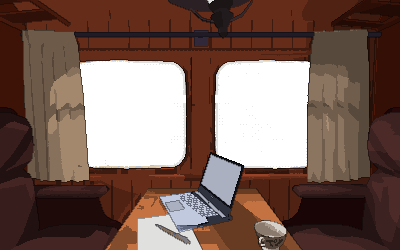
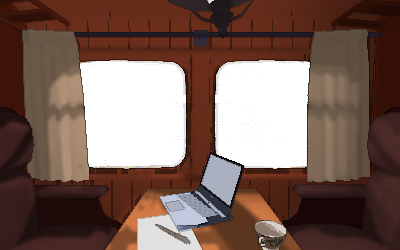
雪国线 pixel ride, cleaner: soft light instead of jagged colour steps on curtains, seats, walls and table; the keyboard a quiet deck with faint rows instead of a checkerboard; the wood outside drawn in clean flat shapes (tools/forest_px.py) instead of a noisy shrunk photo; near trunks cool blue-grey, n
Claude-Session: https://claude.ai/code/session_01ScX6WKwjvGxQ2unMJchHBc

diff --git a/ride.js b/ride.js
@@ -27,11 +27,10 @@
     for (let x = 0; x < TW - 200;) { x += 120 + r() * 420; const w = 50 + r() * 120;
       if (PX) {   // pixel bark: flat tones on the 4-px grid, a snow-lit edge, a few dark notches — no gradients
         const X = Math.round(x / 4) * 4, Wd = Math.round(w / 4) * 4;
-        t.fillStyle = "#3a3028"; t.fillRect(X, 0, Wd, IH);
-        t.fillStyle = "#261f1a"; t.fillRect(X + Math.round(Wd * .62 / 4) * 4, 0, Wd - Math.round(Wd * .62 / 4) * 4, IH);
-        t.fillStyle = "#c9d3de"; t.fillRect(X + 4, 0, 8, IH);
-        t.fillStyle = "#5a4a3e"; t.fillRect(X + 12, 0, 4, IH);
-        t.fillStyle = "#1a1512"; for (let y = 0; y < IH; y += 60 + Math.floor(r() * 90)) t.fillRect(X + 16 + Math.floor(r() * Wd / 8) * 4, Math.round(y / 4) * 4, 8 + Math.floor(r() * 3) * 4, 4);
+        t.fillStyle = "#3a4458"; t.fillRect(X, 0, Wd, IH);          // cool, like the trees in the snow outside
+        t.fillStyle = "#2b3346"; t.fillRect(X + Math.round(Wd * .6 / 4) * 4, 0, Wd - Math.round(Wd * .6 / 4) * 4, IH);
+        t.fillStyle = "#56627a"; t.fillRect(X + 4, 0, 8, IH);
+        t.fillStyle = "#222838"; for (let y = 0; y < IH; y += 60 + Math.floor(r() * 90)) t.fillRect(X + 16 + Math.floor(r() * Wd / 8) * 4, Math.round(y / 4) * 4, 8 + Math.floor(r() * 3) * 4, 4);
         x += w; continue; }
       const gr = t.createLinearGradient(x, 0, x + w, 0); gr.addColorStop(0, "rgba(28,23,18,0)"); gr.addColorStop(.18, "rgba(28,23,18,.97)"); gr.addColorStop(.6, "rgba(48,40,32,.97)"); gr.addColorStop(.82, "rgba(20,16,12,.97)"); gr.addColorStop(1, "rgba(20,16,12,0)");
       t.fillStyle = gr; t.fillRect(x, 0, w, IH);

diff --git a/tools/forest_px.py b/tools/forest_px.py
@@ -1,0 +1,38 @@
+"""纸桌 · the snowy wood seen from the train, drawn in flat pixel shapes (1200×190, tiles horizontally) → assets/snow-forest-px.png"""
+# night snowy wood in the reference's palette: deep blue sky, blue-white snow, a few warm distant lights
+import numpy as np, random
+from PIL import Image, ImageDraw, ImageFilter
+random.seed(3); S=1; W,H=1200*S,190*S
+P=dict(sky0=(150,192,236),sky1=(178,210,242),sky2=(206,226,246),far0=(160,184,222),far1=(142,168,212),mid0=(96,128,182),mid1=(76,106,162),
+       pine0=(44,72,118),pine1=(30,52,94),snow=(250,252,255),snowM=(196,214,244),ground=(236,242,252),groundL=(204,218,244),birch=(240,238,232),mark=(60,64,80))
+im=Image.new('RGB',(W,H),P['sky0']); d=ImageDraw.Draw(im)
+for i,(y,c) in enumerate([(30,'sky1'),(70,'sky2')]): d.rectangle([0,y*S,W,H],fill=P[c])
+def pine(x,base,h,c0,c1,snow):
+    tiers=max(3,h//(9*S))
+    for t in range(tiers):
+        y0=base-h+t*h//tiers; y1=y0+h//tiers+4*S; w=4*S+int((t+1)/tiers*h*.42)
+        d.polygon([(x,y0),(x-w,y1),(x+w,y1)],fill=c0); d.polygon([(x,y0),(x+w,y1),(x+w//3,y1)],fill=c1)
+        if snow:
+            d.polygon([(x,y0),(x-w+S,y1-S),(x-w//2,y1-S),(x-S,y0+3*S)],fill=P['snowM'])
+            d.rectangle([x-w+S,y1-2*S,x+w//3,y1-S],fill=P['snow'])
+    d.rectangle([x-S,base-2*S,x+S,base+2*S],fill=c1)
+def wrap(f,x,*a):
+    for o in (-W,0,W): f(x+o,*a)
+for i in range(80): wrap(pine,random.randrange(W),112*S,random.randint(22,40)*S,P['far0'],P['far1'],False)
+d.rectangle([0,110*S,W,H],fill=P['far0'])
+# distant lit windows: the warm accent, like the reference's buildings
+for i in range(9):
+    x=random.randrange(W); y=random.randint(98,108)*S
+    for o in (-W,0,W): d.rectangle([x+o,y,x+o+2*S,y+2*S],fill=(176,200,236))
+for i in range(50): wrap(pine,random.randrange(W),128*S,random.randint(30,54)*S,P['mid0'],P['mid1'],True)
+d.rectangle([0,126*S,W,H],fill=P['ground']); d.rectangle([0,126*S,W,127*S],fill=P['groundL'])
+for i in range(22): wrap(pine,random.randrange(W),156*S,random.randint(52,86)*S,P['pine0'],P['pine1'],True)
+d.rectangle([0,154*S,W,H],fill=P['ground'])
+for x in range(0,W,2*S):
+    if random.random()<.3: yy_=155*S+random.randint(0,20)*S; d.rectangle([x,yy_,x+S,yy_+S],fill=P['groundL'])
+for i in range(12):
+    x=random.randrange(W); w=random.choice([3,4])*S
+    for o in (-W,0,W):
+        X=x+o; d.rectangle([X,0,X+w-1,160*S],fill=P['birch']); d.rectangle([X+w-S,0,X+w-1,160*S],fill=P['snowM'])
+        for y in range(4*S,158*S,random.randint(9,14)*S): d.rectangle([X,y,X+random.randint(1,w//S-1)*S,y+S-1],fill=P['mark'])
+import os; im.save(os.path.join(os.path.dirname(os.path.dirname(os.path.abspath(__file__))),'assets','snow-forest-px.png')); print(im.size)

diff --git a/tools/pixelate.py b/tools/pixelate.py
@@ -133,7 +133,8 @@ def band(g, q, m, v):
     if v == WALL: base_c = base_c * 1.25
     if v in SEATS: base_c = base_c * np.array([1.08, 1.0, .9])   # wood colour, never the grey smudge
     L = LIGHT_SUN if lit else LIGHT_SHADE                        # shading from a flat-colour render: light and form only, no texture dirt
-    r = L[m] / max(np.median(LIGHT_SHADE[m]), 1e-3); r = LEVELS[np.abs(r[:, None] - LEVELS[None]).argmin(1)]
+    mf = m.astype(np.float32); Ls = ndimage.gaussian_filter(L * mf, 1.6) / np.maximum(ndimage.gaussian_filter(mf, 1.6), 1e-3)
+    r = np.clip(Ls[m] / max(np.median(LIGHT_SHADE[m]), 1e-3), .55, 1.6)
     q[m] = (np.clip(base_c[None] * r[:, None], 0, 1) * 255).astype(np.uint8)
 def px(g):
     global SEAMS
@@ -145,10 +146,10 @@ def px(g):
         l = f32(sh) @ [.3, .59, .11]; d = l - ndimage.uniform_filter(l, 7)
         SEAMS = wall & (d < -.035); SEAMS = ndimage.binary_opening(SEAMS, structure=np.ones((5, 1)))
     q[SEAMS] = (q[SEAMS].astype(np.float32) * .62).astype(np.uint8)
-    q[kb] = (104, 110, 128); q[key] = (196, 202, 218); q[code == PAD] = (170, 176, 192)
-    q = despeck(q, ~glass & ~np.isin(code, PROPS)).astype(np.float32)
+    q[kb] = (150, 156, 174); q[kb & ((((t_ - .12) / .46 * 5) % 1) < .34)] = (122, 128, 148); q[code == PAD] = (170, 176, 192)
+    q = despeck(q, np.isin(code, (PAPER,))).astype(np.float32)
     q = despeck(q.astype(np.uint8), np.isin(code, PROPS), n=2).astype(np.float32)
-    q[edge] *= .66
+    q[edge] *= .78
     q[rim] *= .55
     return q.astype(np.uint8)
 
@@ -158,5 +159,4 @@ frost = (a > 70) & (a <= 110) & (xx % 3 == 0) & (yy % 3 == 1)
 alpha = np.where(glass, np.where(BARS, np.where(frost, 200, 0), np.where(a > 110, 255, np.where(frost, 200, 0))), 255).astype(np.uint8)
 for g, name, lit in [(g_sun, "cabin-day-px.png", True), (g_sh, "cabin-day-shade-px.png", False)]:
     Image.fromarray(np.dstack([px(g), alpha]), "RGBA").save(f"{A}/{name}", optimize=True)
-qw = np.asarray(Image.fromarray((g_wood * 255).astype(np.uint8)).quantize(palette=pal, dither=Image.Dither.NONE).convert("RGB"))
-Image.fromarray(qw).save(f"{A}/snow-forest-px.png", optimize=True)
+# the wood outside is drawn, not photographed: tools/forest_px.py
